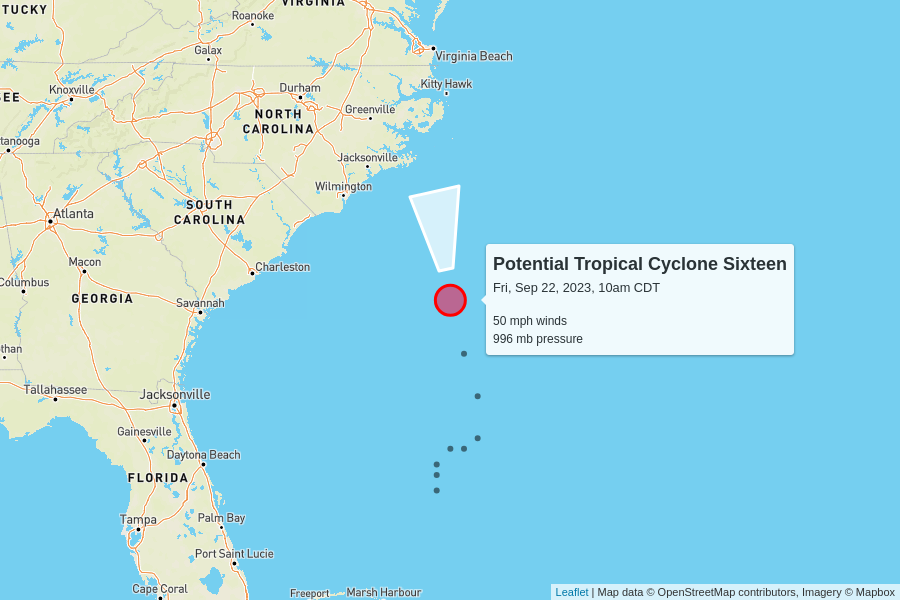
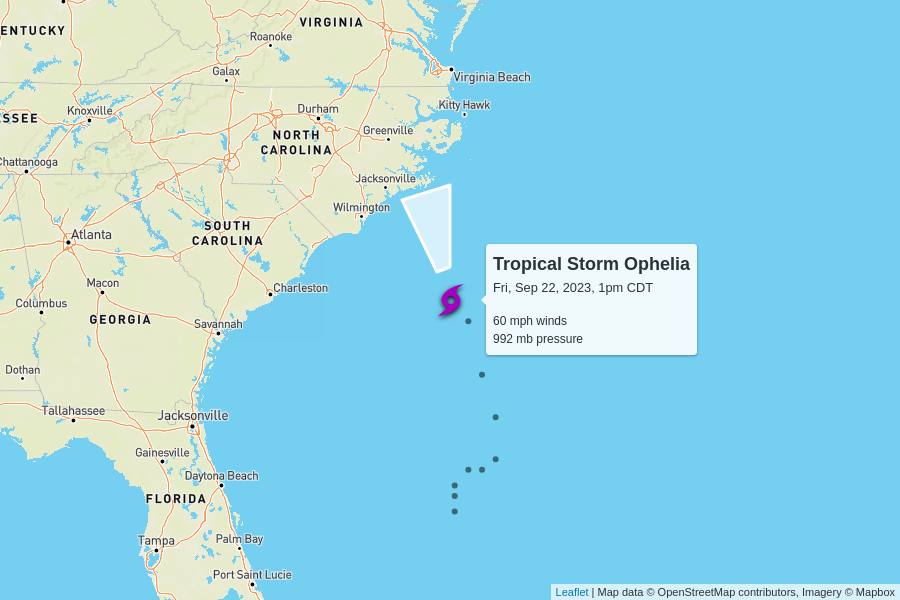
automatic update

Changed region(s): [[0.0, 0.0, 0.9022, 1.0], [0.4978, 0.72, 0.5289, 0.75], [0.1556, 0.0, 0.1867, 0.03]]

diff --git a/docs/index.html b/docs/index.html
@@ -101,8 +101,8 @@
       <tr>
         <td colspan="6" class="storm category-0" >
           <h2>
-            Potential Tropical Cyclone Sixteen
-            <p class="updated">last updated <span data-time>2023-09-22T15:00:00.000Z</span></p>
+            Tropical Storm Ophelia
+            <p class="updated">last updated <span data-time>2023-09-22T18:00:00.000Z</span></p>
           </h2>
         </td>
       </tr>
@@ -117,15 +117,15 @@
       </tr>
       <tr>
         <td class="spacer"></td>
-        <td>50 mph<br>0 mph since last update</td>
-        <td>996 mb<br>0 mb since last update</td>
+        <td>60 mph<br>+10 mph since last update</td>
+        <td>992 mb<br>-4 mb since last update</td>
         <td>
-          12 mph to the north
+          12 mph to the north-northwest
           <br/>
-          <span style="display: inline-block; font-size: 1.5em; transform: rotate(350deg);">↑</span>
+          <span style="display: inline-block; font-size: 1.5em; transform: rotate(345deg);">↑</span>
         </td>
         <td><a href="https://raw.githubusercontent.com/mgwalker/atlantic-hurricanes/main/data/csv/AL162023.csv">AL162023.csv</a></td>
-        <td><a href="https://www.nhc.noaa.gov/archive/2023/SIXTEEN.shtml?">NHC advisories</a></td>
+        <td><a href="https://www.nhc.noaa.gov/archive/2023/OPHELIA.shtml?">NHC advisories</a></td>
       </tr>
       <tr id="storm_AL162023" >
         <td class="spacer">
@@ -165,28 +165,6 @@
       
 
       <tr>
-        <td colspan="6" class="storm " style="cursor:pointer;" onClick="toggle('AL142023')">
-          <h2>🏁 Margot
-          </h2>
-        </td>
-      </tr>
-      
-      <tr id="storm_AL142023" style="display:none;">
-        <td class="spacer">
-        <td colspan="5">
-          <figure>
-            <img src="AL142023.png">
-            <figcaption>
-              Map data &copy; <a href="https://www.openstreetmap.org/copyright">OpenStreetMap</a> contributors,
-              Imagery &copy; <a href="https://www.mapbox.com/">Mapbox</a> |
-              <a href="https://www.mapbox.com/map-feedback/" target="_blank">Improve this map</a>
-            </figcaption>
-          </figure>
-        </td>
-      </tr>
-      
-
-      <tr>
         <td colspan="6" class="storm " style="cursor:pointer;" onClick="toggle('AL132023')">
           <h2>🏁 Lee
           </h2>
@@ -198,6 +176,28 @@
         <td colspan="5">
           <figure>
             <img src="AL132023.png">
+            <figcaption>
+              Map data &copy; <a href="https://www.openstreetmap.org/copyright">OpenStreetMap</a> contributors,
+              Imagery &copy; <a href="https://www.mapbox.com/">Mapbox</a> |
+              <a href="https://www.mapbox.com/map-feedback/" target="_blank">Improve this map</a>
+            </figcaption>
+          </figure>
+        </td>
+      </tr>
+      
+
+      <tr>
+        <td colspan="6" class="storm " style="cursor:pointer;" onClick="toggle('AL142023')">
+          <h2>🏁 Margot
+          </h2>
+        </td>
+      </tr>
+      
+      <tr id="storm_AL142023" style="display:none;">
+        <td class="spacer">
+        <td colspan="5">
+          <figure>
+            <img src="AL142023.png">
             <figcaption>
               Map data &copy; <a href="https://www.openstreetmap.org/copyright">OpenStreetMap</a> contributors,
               Imagery &copy; <a href="https://www.mapbox.com/">Mapbox</a> |
